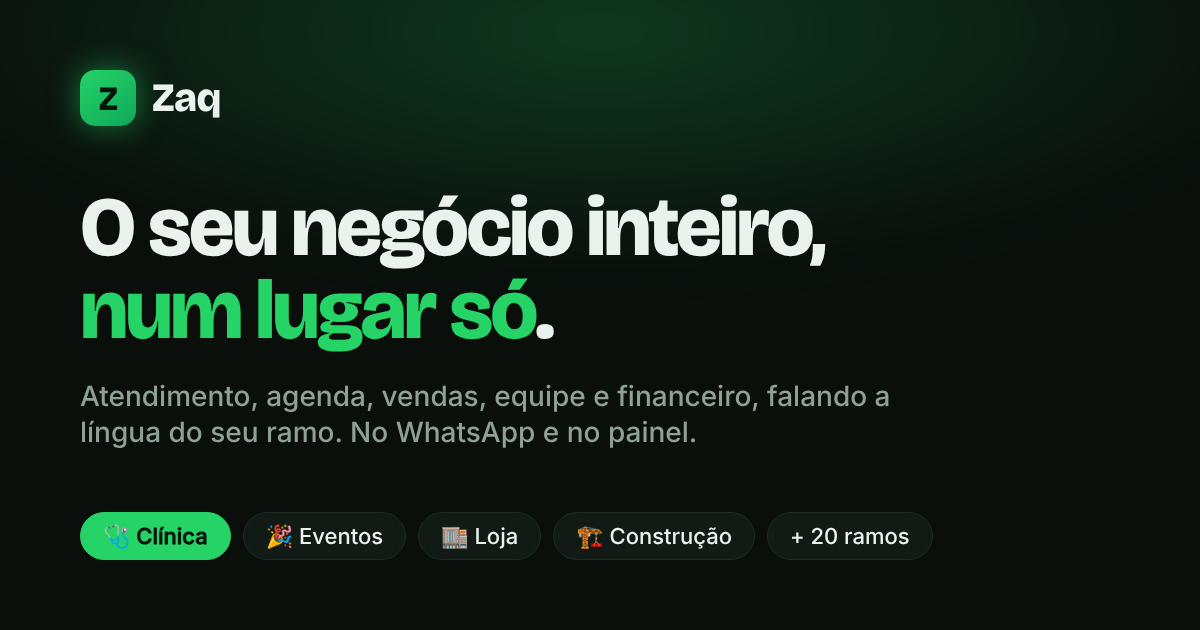
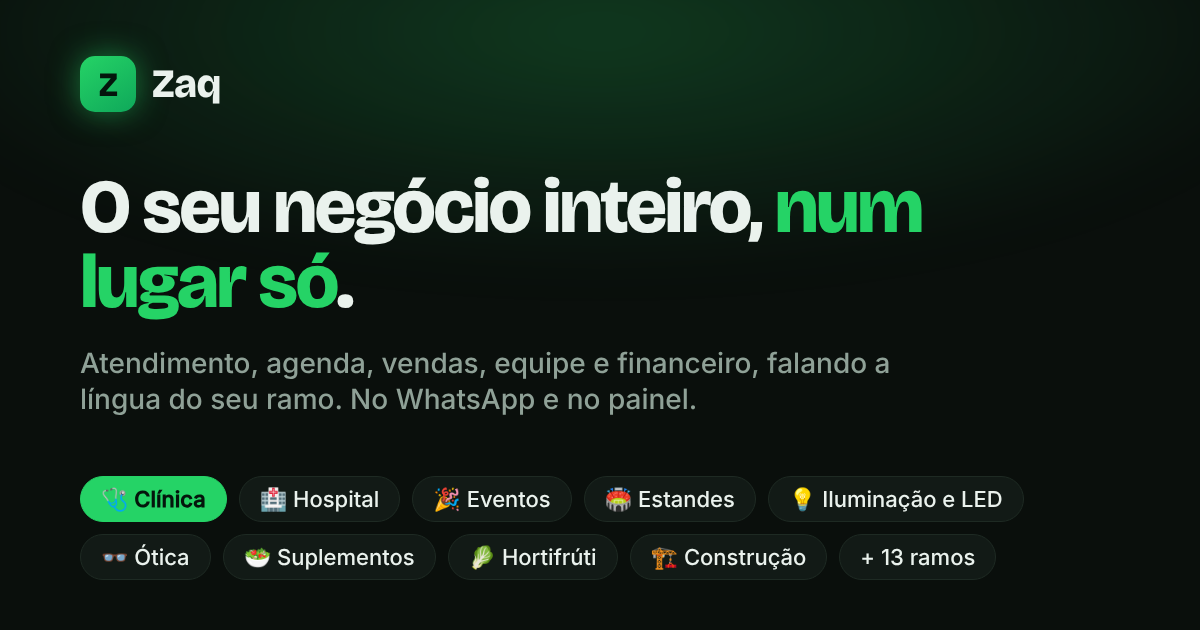
Home: nove ramos com cartão próprio, não quatro
Pedido do dono em 28/10/2026: faltavam iluminação e LED, CEASA, hospital,
stand de vendas e loja de suplementos. O "Loja" genérico sai e cada ramo
que já roda com cliente ganha chip no topo, conversa no celular, tela
desenhada e cartão com o vocabulário dele:

* Saúde: Clínica, Hospital (funil próprio, exames e cirurgias, TV com voz).
* Eventos e feiras: Eventos e festas, Stand de vendas (mapa público,
  pré-reserva, um contrato por empresa, custo por estande vendido).
* Comércio: Iluminação e LED (catálogo pela planilha, aprovações,
  expedição, sala do projeto), Ótica (OS, laboratório, central e lojas,
  boletim), Suplementos e cozinha fit (ficha técnica, produção do dia,
  curva ABC), Hortifrúti e CEASA (cestas da semana, compra somada no
  CEASA, romaneio da rota).
* Obras: Construção e reforma (agora com Suprimentos).

Tudo tirado dos avisos de novidade e de finance/nichos.py. Três colunas
em tela larga; a imagem de compartilhamento lista os nove ramos; o botão
"Ver o que o Zaq faz no meu ramo" leva ao cartão escolhido.

Claude-Session: https://claude.ai/code/session_016SqF7EmVp2eraxtH3fqPpV

diff --git a/index.html b/index.html
@@ -4,9 +4,9 @@
 <meta charset="utf-8">
 <meta name="viewport" content="width=device-width, initial-scale=1">
 <title>Zaq — o sistema da sua empresa, no WhatsApp</title>
-<meta name="description" content="Atendimento, agenda, vendas, equipe e financeiro do seu negócio num lugar só, falando a língua do seu ramo: clínica, eventos, loja, construção e mais. No WhatsApp e no painel.">
+<meta name="description" content="Atendimento, agenda, vendas, equipe e financeiro do seu negócio num lugar só, falando a língua do seu ramo: clínica, hospital, eventos, estandes, iluminação, ótica, suplementos, hortifrúti, construção e mais. No WhatsApp e no painel.">
 <meta property="og:title" content="Zaq — o sistema da sua empresa, no WhatsApp">
-<meta property="og:description" content="Do primeiro oi do cliente ao dinheiro na conta, feito pro seu ramo. Clínica, eventos, loja, construção e mais.">
+<meta property="og:description" content="Do primeiro oi do cliente ao dinheiro na conta, feito pro seu ramo. Clínica, hospital, eventos, estandes, iluminação e LED, ótica, suplementos, hortifrúti, construção e mais.">
 <meta property="og:type" content="website">
 <meta property="og:url" content="https://zaq-ia.com">
 <meta property="og:image" content="https://zaq-ia.com/og.png">
@@ -20,7 +20,7 @@
 <link rel="preconnect" href="https://fonts.gstatic.com" crossorigin>
 <link href="https://fonts.googleapis.com/css2?family=Bricolage+Grotesque:opsz,wght@12..96,500;12..96,700;12..96,800&family=Inter:wght@400;500;600&family=JetBrains+Mono:wght@500&display=swap" rel="stylesheet">
 <script type="application/ld+json">
-{"@context":"https://schema.org","@type":"SoftwareApplication","name":"Zaq","applicationCategory":"BusinessApplication","operatingSystem":"Web, WhatsApp","url":"https://zaq-ia.com","description":"Sistema de gestão por ramo (clínica, eventos, loja, construção) que funciona no WhatsApp e no painel: atendimento, agenda, vendas, equipe e financeiro.","inLanguage":"pt-BR","offers":{"@type":"Offer","priceCurrency":"BRL","description":"Sob orçamento"}}
+{"@context":"https://schema.org","@type":"SoftwareApplication","name":"Zaq","applicationCategory":"BusinessApplication","operatingSystem":"Web, WhatsApp","url":"https://zaq-ia.com","description":"Sistema de gestão por ramo (clínica, hospital, eventos, estandes, iluminação e LED, ótica, suplementos, hortifrúti, construção) que funciona no WhatsApp e no painel: atendimento, agenda, vendas, equipe e financeiro.","inLanguage":"pt-BR","offers":{"@type":"Offer","priceCurrency":"BRL","description":"Sob orçamento"}}
 </script>
 <style>
   :root{
@@ -68,7 +68,7 @@
   .ramo-pick{margin-top:26px}
   .ramo-pick .lbl{font-family:var(--mono);font-size:11.5px;letter-spacing:.14em;text-transform:uppercase;color:var(--text-faint);margin-bottom:10px}
   .chips{display:flex;flex-wrap:wrap;gap:8px}
-  .chips button{font:inherit;font-size:.92rem;font-weight:600;padding:9px 15px;border-radius:999px;border:1px solid var(--line);background:var(--surface);color:var(--text-dim);cursor:pointer;transition:.15s;display:inline-flex;align-items:center;gap:7px}
+  .chips button{font:inherit;font-size:.9rem;font-weight:600;padding:8px 13px;border-radius:999px;border:1px solid var(--line);background:var(--surface);color:var(--text-dim);cursor:pointer;transition:.15s;display:inline-flex;align-items:center;gap:7px}
   .chips button:hover{border-color:rgba(37,211,102,.5);color:var(--text)}
   .chips button[aria-pressed="true"]{background:var(--neon);border-color:var(--neon);color:#04150C}
   .chips button:focus-visible{outline:2px solid var(--neon);outline-offset:2px}
@@ -115,6 +115,7 @@
   .ramos{display:grid;grid-template-columns:minmax(0,1fr);gap:18px;margin-top:36px}
   .ramo{min-width:0;background:var(--surface);border:1px solid var(--line);border-radius:22px;padding:26px 22px;display:grid;gap:18px;scroll-margin-top:80px;transition:border-color .3s,box-shadow .3s}
   .ramo.destaque{border-color:rgba(37,211,102,.5);box-shadow:0 0 50px rgba(37,211,102,.08)}
+  .ramo .grupo{font-family:var(--mono);font-size:10.5px;letter-spacing:.14em;text-transform:uppercase;color:var(--text-faint);margin-bottom:-6px}
   .ramo .rhead{display:flex;align-items:center;gap:12px}
   .ramo .ric{width:46px;height:46px;border-radius:13px;background:rgba(37,211,102,.1);display:grid;place-items:center;font-size:23px;flex-shrink:0}
   .ramo h3{font-family:var(--display);font-weight:800;font-size:1.45rem;letter-spacing:-.02em;line-height:1.1}
@@ -139,7 +140,7 @@
   .funil{display:grid;grid-template-columns:repeat(4,1fr);gap:6px}
   .funil .col{min-width:0;background:var(--surface);border-radius:8px;padding:6px;min-height:92px}
   .funil .col i{display:block;font-style:normal;font-family:var(--mono);font-size:9px;letter-spacing:.08em;text-transform:uppercase;color:var(--text-faint);margin-bottom:5px}
-  .funil .card{background:var(--bg-2);border:1px solid var(--line);border-radius:6px;padding:5px 6px;font-size:10.5px;color:var(--text);margin-top:4px;line-height:1.3;overflow:hidden;text-overflow:ellipsis;white-space:nowrap}
+  .funil .card{background:var(--bg-2);border:1px solid var(--line);border-radius:6px;padding:5px 6px;font-size:10.5px;color:var(--text);margin-top:4px;line-height:1.25;overflow-wrap:anywhere}
   .funil .card small{display:block;color:var(--text-faint);font-size:9.5px;overflow:hidden;text-overflow:ellipsis}
   .quadra{display:grid;grid-template-columns:repeat(6,1fr);gap:5px}
   .quadra span{aspect-ratio:1;border-radius:5px;background:var(--surface);border:1px solid var(--line);display:grid;place-items:center;font-size:9px;color:var(--text-faint);font-family:var(--mono)}
@@ -206,6 +207,10 @@
     .hero{grid-template-columns:1.05fr .95fr;align-items:center}
     .cta-row{flex-direction:row;align-items:center;flex-wrap:wrap}
     .ramos{grid-template-columns:repeat(2,minmax(0,1fr))}
+  }
+  @media(min-width:1040px){
+    .ramos{grid-template-columns:repeat(3,minmax(0,1fr))}
+    .ramo{padding:26px 22px}
     .ramo{grid-template-columns:1fr;padding:28px 26px}
     .casa{grid-template-columns:repeat(3,1fr)}
     .steps{grid-template-columns:repeat(3,1fr)}
@@ -240,8 +245,13 @@
         <div class="lbl">Qual é o seu ramo?</div>
         <div class="chips" id="chips" role="group" aria-label="Escolha o seu ramo">
           <button type="button" data-ramo="clinica" aria-pressed="true">🩺 Clínica</button>
-          <button type="button" data-ramo="eventos" aria-pressed="false">🎉 Eventos</button>
-          <button type="button" data-ramo="loja" aria-pressed="false">🏬 Loja</button>
+          <button type="button" data-ramo="hospital" aria-pressed="false">🏥 Hospital</button>
+          <button type="button" data-ramo="eventos" aria-pressed="false">🎉 Eventos e festas</button>
+          <button type="button" data-ramo="estandes" aria-pressed="false">🏟 Stand de vendas</button>
+          <button type="button" data-ramo="led" aria-pressed="false">💡 Iluminação e LED</button>
+          <button type="button" data-ramo="otica" aria-pressed="false">👓 Ótica</button>
+          <button type="button" data-ramo="suplementos" aria-pressed="false">🥗 Suplementos</button>
+          <button type="button" data-ramo="hortifruti" aria-pressed="false">🥬 Hortifrúti e CEASA</button>
           <button type="button" data-ramo="obras" aria-pressed="false">🏗 Construção</button>
           <button type="button" data-ramo="outro" aria-pressed="false">Outro ramo</button>
         </div>
@@ -252,7 +262,7 @@
           <svg viewBox="0 0 24 24" fill="currentColor"><path d="M12.04 2C6.58 2 2.13 6.45 2.13 11.91c0 1.75.46 3.45 1.32 4.95L2 22l5.25-1.38a9.9 9.9 0 004.79 1.22h.01c5.46 0 9.91-4.45 9.91-9.91S17.5 2 12.04 2zm5.8 14.18c-.24.68-1.4 1.3-1.94 1.38-.5.07-1.13.1-1.82-.11-.42-.13-.96-.31-1.65-.61-2.9-1.25-4.8-4.17-4.94-4.36-.15-.19-1.18-1.57-1.18-3s.75-2.13 1.02-2.42c.27-.29.59-.36.78-.36.2 0 .39 0 .56.01.18.01.42-.07.66.5.24.59.82 2.04.89 2.19.07.15.12.32.02.51-.09.19-.14.31-.28.48-.14.17-.29.37-.42.5-.14.14-.28.29-.12.57.16.27.71 1.17 1.53 1.9 1.05.94 1.94 1.23 2.22 1.37.27.14.43.12.59-.07.16-.19.68-.79.86-1.06.18-.27.36-.22.61-.13.25.09 1.6.75 1.87.89.27.14.46.2.53.32.07.11.07.66-.17 1.34z"/></svg>
           <span class="js-cta-txt">Pedir orçamento pra minha clínica</span>
         </a>
-        <a class="btn-ghost" href="#ramos">Ver o que o Zaq faz no meu ramo</a>
+        <a class="btn-ghost" id="ver-ramo" href="#ramo-clinica">Ver o que o Zaq faz no meu ramo</a>
       </div>
       <p class="micro">Cada negócio é um orçamento <span class="dot"></span> a gente responde no WhatsApp, gente de verdade</p>
     </div>
@@ -283,15 +293,70 @@
           <div class="msg out" data-step>quero sim!<span class="t">20:18</span></div>
         </div>
 
-        <div class="chat" data-chat="loja">
-          <span class="quem-fala">o cliente fala com a loja</span>
-          <div class="msg out" data-step>Vocês têm o pendente Lumi 30 em preto?<span class="t">11:02</span></div>
-          <div class="msg in" data-step style="max-width:92%">Temos sim 👇
-            <div class="summary"><div class="row"><span>💡 Pendente Lumi 30</span><b>preto</b></div><div class="row"><span>📦 Estoque</span><b>12 · loja Centro</b></div><div class="row"><span>💰 Preço</span><b>R$ 389,00</b></div><div class="ok">✓ O Rafael, vendedor da loja, já está com você</div></div>
-            <span class="t">11:02</span>
+        <div class="chat" data-chat="hospital">
+          <span class="quem-fala">a mãe fala com o hospital</span>
+          <div class="msg out" data-step>Oi, preciso marcar o teste da orelhinha do meu bebê<span class="t">8:05</span></div>
+          <div class="msg in" data-step>Claro! Tenho <b>amanhã às 8h30</b> e <b>quinta às 10h</b> com a fono. Qual fica melhor?<span class="t">8:05</span></div>
+          <div class="msg out" data-step>amanhã 8h30<span class="t">8:06</span></div>
+          <div class="msg in" data-step style="max-width:92%">Marcado 👇
+            <div class="summary"><div class="row"><span>🧪 Exame</span><b>teste da orelhinha</b></div><div class="row"><span>📅 Quando</span><b>amanhã, 8h30</b></div><div class="row"><span>📍 Onde</span><b>Recepção 2 · térreo</b></div><div class="ok">✓ Lembrete de manhã; na chegada, chamada na TV com voz</div><span class="link">Confirmar ou remarcar</span></div>
+            <span class="t">8:06</span>
           </div>
-          <div class="msg out" data-step>quero 2, pode mandar o orçamento<span class="t">11:04</span></div>
-          <div class="msg in" data-step>Enviado! Você aceita pelo link no celular e a expedição já separa 📦<span class="t">11:04</span></div>
+        </div>
+
+        <div class="chat" data-chat="estandes">
+          <span class="quem-fala">o lojista fala com a feira</span>
+          <div class="msg out" data-step>Vi o mapa da 32ª edição. O estande B12 ainda está livre?<span class="t">15:40</span></div>
+          <div class="msg in" data-step style="max-width:92%">Está sim 👇
+            <div class="summary"><div class="row"><span>🏟 Estande</span><b>B12 · 3×3 m</b></div><div class="row"><span>📍 Onde</span><b>corredor principal</b></div><div class="row"><span>⏳ Pré-reserva</span><b>vence em 48h</b></div><div class="ok">✓ Reservado no mapa; contrato e Pix do sinal no link</div></div>
+            <span class="t">15:40</span>
+          </div>
+          <div class="msg out" data-step>paguei o sinal<span class="t">16:02</span></div>
+          <div class="msg in" data-step>Caiu! O B12 é seu. O card foi pra <b>vendido</b> e a comissão da Carla já está lançada 🎉<span class="t">16:02</span></div>
+        </div>
+
+        <div class="chat" data-chat="led">
+          <span class="quem-fala">a arquiteta fala com a loja</span>
+          <div class="msg out" data-step>Preciso de 40 m de fita LED 2700K com perfil, pra uma sala de estar<span class="t">10:12</span></div>
+          <div class="msg in" data-step style="max-width:92%">Montei assim 👇
+            <div class="summary"><div class="row"><span>💡 Fita 2700K</span><b>40 m · 2 rolos</b></div><div class="row"><span>📏 Perfil + difusor</span><b>14 varas</b></div><div class="row"><span>🔌 Fonte</span><b>2 un · 150 W</b></div><div class="row"><span>💰 Total</span><b>R$ 2.860,00</b></div><div class="ok">✓ Tudo em estoque · orçamento 2207 enviado</div></div>
+            <span class="t">10:13</span>
+          </div>
+          <div class="msg out" data-step>aprovado, pode faturar<span class="t">10:40</span></div>
+          <div class="msg in" data-step>Aceite registrado pelo link. A expedição já separa e o projeto entrou na agenda da loja 📦<span class="t">10:40</span></div>
+        </div>
+
+        <div class="chat" data-chat="otica">
+          <span class="quem-fala">o cliente fala com a ótica</span>
+          <div class="msg out" data-step>Saiu minha receita nova, quero fazer os óculos<span class="t">14:20</span></div>
+          <div class="msg in" data-step>Ótimo! Me manda a foto da receita 📷 e eu já abro a ordem de serviço.<span class="t">14:20</span></div>
+          <div class="msg in" data-step style="max-width:92%">Pronto 👇
+            <div class="summary"><div class="row"><span>👓 OS 0412</span><b>OD −2,00 · OE −1,75</b></div><div class="row"><span>🕶 Armação</span><b>a sua, com lente nova</b></div><div class="row"><span>🔬 Lente</span><b>antirreflexo · lab. 7 dias</b></div><div class="ok">✓ Sinal via Pix no link; aviso quando ficar pronto</div></div>
+            <span class="t">14:21</span>
+          </div>
+          <div class="msg in" data-step>Seus óculos ficaram prontos! Pode retirar na <b>loja Centro</b> até as 18h 😊<span class="t">sex 11:05</span></div>
+        </div>
+
+        <div class="chat" data-chat="suplementos">
+          <span class="quem-fala">a cliente fala com a loja</span>
+          <div class="msg out" data-step>Tem marmita de frango fit hoje? Quero 5<span class="t">9:50</span></div>
+          <div class="msg in" data-step style="max-width:92%">Tem sim 👇
+            <div class="summary"><div class="row"><span>🍱 Frango fit</span><b>5 × R$ 24,90</b></div><div class="row"><span>🥤 Leva junto?</span><b>whey morango · R$ 149</b></div><div class="row"><span>🛵 Entrega</span><b>hoje até 12h</b></div><div class="ok">✓ Produção do dia baixou os insumos; etiqueta já saiu</div></div>
+            <span class="t">9:50</span>
+          </div>
+          <div class="msg out" data-step>fechado, com o whey<span class="t">9:52</span></div>
+          <div class="msg in" data-step>Pedido 318 saindo. O whey saiu do estoque da loja e o caixa do dia já contou ✓<span class="t">9:52</span></div>
+        </div>
+
+        <div class="chat" data-chat="hortifruti">
+          <span class="quem-fala">a cliente fala com o fornecedor</span>
+          <div class="msg out" data-step>Quero a cesta média dessa semana, com mais banana<span class="t">19:30</span></div>
+          <div class="msg in" data-step style="max-width:92%">Anotado 👇
+            <div class="summary"><div class="row"><span>🧺 Cesta média</span><b>entrega quinta</b></div><div class="row"><span>🍌 Extra</span><b>+ 1 kg banana</b></div><div class="row"><span>💰 Total</span><b>R$ 68,00</b></div><div class="ok">✓ Na rota de quinta; o romaneio do motorista sai sozinho</div></div>
+            <span class="t">19:30</span>
+          </div>
+          <span class="quem-fala" style="margin-top:6px">e o Zaq fala com o dono</span>
+          <div class="msg in" data-step>Sua ida ao CEASA de quarta já soma <b>42 kg de banana</b> e <b>18 maços de alface</b> entre todos os pedidos da semana 🛒<span class="t">19:31</span></div>
         </div>
 
         <div class="chat" data-chat="obras">
@@ -324,12 +389,13 @@
   <div class="wrap">
     <div class="sec-eyebrow">Feito pro seu ramo</div>
     <h2>O Zaq fala a língua de quem usa.</h2>
-    <p class="lead">Clínica não tem "festa", buffet não tem "paciente", loja não tem "lote". <b>Cada ramo tem as suas telas, as suas palavras e os seus números</b>, e nada de um ramo vaza pro outro.</p>
+    <p class="lead">Clínica não tem "festa", buffet não tem "paciente", ótica não tem "lote". <b>Cada ramo tem as suas telas, as suas palavras e os seus números</b>, e nada de um ramo vaza pro outro. Nove ramos já rodam com cliente de verdade.</p>
 
     <div class="ramos">
       <article class="ramo" id="ramo-clinica" data-ramo="clinica">
+        <div class="grupo">Saúde</div>
         <div class="rhead"><div class="ric">🩺</div><div><h3>Clínica</h3><div class="quem">estética, odonto, fisioterapia, dermatologia, consultório</div></div></div>
-        <p class="frase">Da recepção à sala do médico, o dia inteiro ao vivo.</p>
+        <p class="frase">Da recepção à sala do profissional, o dia inteiro ao vivo.</p>
         <div class="tela">
           <div class="tt"><span>Hoje · recepção</span><span>qui, 14 pacientes</span></div>
           <div class="ln"><b>Mariana S.</b><span class="pill v">em atendimento</span></div>
@@ -343,11 +409,30 @@
           <li><b>Orçamento começa na consulta</b>, com pacotes e sessões; a recepção fecha o pagamento com Pix, boleto ou cartão.</li>
           <li><b>Caixa do dia, repasse por profissional</b> e insumos da sala contados, com reposição avisada.</li>
         </ul>
-        <a class="rcta js-cta" href="https://wa.me/13192453800?text=Oi!%20Tenho%20uma%20cl%C3%ADnica%20e%20quero%20um%20or%C3%A7amento%20do%20Zaq" target="_blank" rel="noopener">Pedir orçamento pra clínica →</a>
+        <a class="rcta js-cta" href="https://wa.me/13192453800?text=Oi%21%20Tenho%20uma%20cl%C3%ADnica%20e%20quero%20um%20or%C3%A7amento%20do%20Zaq" target="_blank" rel="noopener">Pedir orçamento pra clínica →</a>
       </article>
-
+      <article class="ramo" id="ramo-hospital" data-ramo="hospital">
+        <div class="grupo">Saúde</div>
+        <div class="rhead"><div class="ric">🏥</div><div><h3>Hospital</h3><div class="quem">hospital-dia, centro de diagnóstico, maternidade, pronto atendimento</div></div></div>
+        <p class="frase">As mesmas telas da clínica, com a palavra e o caminho do hospital.</p>
+        <div class="tela">
+          <div class="tt"><span>Fila · exames e cirurgias</span><span>ter, 31 atendimentos</span></div>
+          <div class="ln"><b>Teste da orelhinha · Bebê de Ana</b><span class="pill a">chegou · TV</span></div>
+          <div class="ln"><b>Ergométrico · João P.</b><span class="pill v">em exame</span></div>
+          <div class="ln"><b>Cirurgia · Helena R.</b><span class="pill z">pré-op confirmado</span></div>
+          <div class="ln"><b>Retorno · Marcos L.</b><span class="pill r">faltou · remarcar</span></div>
+        </div>
+        <ul>
+          <li><b>Consultas, exames, testes, cirurgias e procedimentos</b> no catálogo e nos relatórios, cada grupo com o seu número.</li>
+          <li><b>Funil próprio</b>, com o que só existe aqui: "faltou e não remarcou", "desistiu após falha do hospital", e a mensagem de voltar a chamar.</li>
+          <li><b>Chegada e chamada na TV</b> da recepção em tela cheia, com voz; o profissional marca na sala e confirma o dia.</li>
+          <li>Prontuário, caixa, repasse e a Comunicação com a equipe, tudo dizendo "o hospital", nunca "a clínica".</li>
+        </ul>
+        <a class="rcta js-cta" href="https://wa.me/13192453800?text=Oi%21%20Falo%20por%20um%20hospital%20e%20quero%20um%20or%C3%A7amento%20do%20Zaq" target="_blank" rel="noopener">Pedir orçamento pro hospital →</a>
+      </article>
       <article class="ramo" id="ramo-eventos" data-ramo="eventos">
-        <div class="rhead"><div class="ric">🎉</div><div><h3>Eventos e festas</h3><div class="quem">buffet, espaço de festas, cerimonial, estandes de feira</div></div></div>
+        <div class="grupo">Eventos e feiras</div>
+        <div class="rhead"><div class="ric">🎉</div><div><h3>Eventos e festas</h3><div class="quem">buffet, espaço de festas, cerimonial, decoração</div></div></div>
         <p class="frase">Do primeiro oi ao pós-festa, sem perder uma data.</p>
         <div class="tela">
           <div class="tt"><span>Funil · fevereiro</span><span>18 festas</span></div>
@@ -362,31 +447,105 @@
           <li>O card <b>lê a data, o tipo e os convidados</b> na própria conversa e avisa quando duas festas caem no mesmo dia.</li>
           <li><b>Visita, proposta por link e contrato</b> que fecha o negócio e abre o financeiro; sinal via Pix com baixa sozinha.</li>
           <li><b>Rodízio de vendedores</b>, comissão por faixa de contratos e o Resgate da IA pra lead que esfriou.</li>
-          <li>Pra feira: funil de estandes, do mapa reservado ao estande quitado.</li>
+          <li>A festa aconteceu? Um toque confirma, e o agradecimento sai pro cliente.</li>
         </ul>
-        <a class="rcta js-cta" href="https://wa.me/13192453800?text=Oi!%20Trabalho%20com%20eventos%20e%20quero%20um%20or%C3%A7amento%20do%20Zaq" target="_blank" rel="noopener">Pedir orçamento pra eventos →</a>
+        <a class="rcta js-cta" href="https://wa.me/13192453800?text=Oi%21%20Trabalho%20com%20eventos%20e%20quero%20um%20or%C3%A7amento%20do%20Zaq" target="_blank" rel="noopener">Pedir orçamento pra eventos →</a>
       </article>
-
-      <article class="ramo" id="ramo-loja" data-ramo="loja">
-        <div class="rhead"><div class="ric">🏬</div><div><h3>Loja e varejo</h3><div class="quem">iluminação, ótica, suplementos, hortifrúti, mais de uma loja</div></div></div>
-        <p class="frase">Catálogo, estoque, orçamento, expedição e fiscal, do balcão à entrega.</p>
+      <article class="ramo" id="ramo-estandes" data-ramo="estandes">
+        <div class="grupo">Eventos e feiras</div>
+        <div class="rhead"><div class="ric">🏟</div><div><h3>Stand de vendas</h3><div class="quem">feira, outlet, bazar, evento com estandes pra lojista</div></div></div>
+        <p class="frase">Do mapa público ao estande quitado, com a vendedora comissionada.</p>
         <div class="tela">
-          <div class="tt"><span>Estoque · pendente Lumi 30</span><span>por endereço</span></div>
-          <div class="ln"><b>Loja Centro · A-03</b><span class="pill v">12 un</span></div>
-          <div class="ln"><b>Loja Norte · B-11</b><span class="pill a">2 un · repor</span></div>
-          <div class="ln"><b>Expedição · pedido 1842</b><span class="pill z">separando</span></div>
-          <div class="ln"><b>Orçamento 2207</b><span class="pill r">aceito no celular ✓</span></div>
+          <div class="tt"><span>Mapa · 32ª edição</span><span>48 estandes</span></div>
+          <div class="quadra"><span class="e2">A1</span><span class="e2">A2</span><span class="e1">A3</span><span>A4</span><span class="e2">A5</span><span class="e3">A6</span><span class="e2">B10</span><span class="e1">B11</span><span>B12</span><span class="e2">B13</span><span class="e1">B14</span><span class="e2">B15</span></div>
+          <div class="legenda"><span><i style="background:rgba(37,211,102,.5)"></i>vendido</span><span><i style="background:rgba(37,211,102,.2)"></i>pré-reserva</span><span><i style="background:rgba(224,163,46,.4)"></i>bloqueado</span><span><i style="background:#1E2A23"></i>livre</span></div>
         </div>
         <ul>
-          <li><b>Catálogo pela planilha</b>, ficha técnica, NCM conferido e preço por lista de cliente.</li>
-          <li><b>Estoque por endereço</b>, inventário, compras pelo que falta e <b>expedição</b> com separação, conferência e entrega.</li>
-          <li><b>Vendedor de loja e supervisor</b>: a central leva o cliente pra loja certa e o boletim mostra cada loja em cinco tarefas.</li>
-          <li>Ótica com <b>ordem de serviço</b> (receita, armação, lente, laboratório); cozinha com ficha técnica e produção do dia.</li>
+          <li><b>Mapa público</b> da edição: o lojista escolhe o estande, faz a pré-reserva com vencimento, e a gestão bloqueia o que não vende.</li>
+          <li><b>Funil do lojista</b>: atendido, recebeu o mapa, reservou, vendido, quitado. Cada card anda sozinho.</li>
+          <li><b>Uma empresa, um contrato</b>, mesmo com vários estandes; sinal via Pix, recebimentos e comprovante na proposta.</li>
+          <li>Quem clica no anúncio e reserva pelo mapa cai no card certo: você vê o <b>custo por estande vendido</b>.</li>
         </ul>
-        <a class="rcta js-cta" href="https://wa.me/13192453800?text=Oi!%20Tenho%20uma%20loja%20e%20quero%20um%20or%C3%A7amento%20do%20Zaq" target="_blank" rel="noopener">Pedir orçamento pra loja →</a>
+        <a class="rcta js-cta" href="https://wa.me/13192453800?text=Oi%21%20Vendo%20estandes%20em%20feira%20e%20quero%20um%20or%C3%A7amento%20do%20Zaq" target="_blank" rel="noopener">Pedir orçamento pra venda de estandes →</a>
       </article>
-
+      <article class="ramo" id="ramo-led" data-ramo="led">
+        <div class="grupo">Comércio</div>
+        <div class="rhead"><div class="ric">💡</div><div><h3>Iluminação e LED</h3><div class="quem">loja de iluminação, distribuidor de LED, projetos luminotécnicos</div></div></div>
+        <p class="frase">Catálogo, estoque, orçamento, aprovação, expedição e fiscal, do balcão à obra.</p>
+        <div class="tela">
+          <div class="tt"><span>Orçamentos · loja</span><span>semana</span></div>
+          <div class="ln"><b>2207 · Sala de estar · Arq. Paula</b><span class="pill v">aceito no celular</span></div>
+          <div class="ln"><b>2208 · Fachada · Loja Vila</b><span class="pill a">aguardando aprovação</span></div>
+          <div class="ln"><b>Pedido 1842 · expedição</b><span class="pill z">separando · baia 3</span></div>
+          <div class="ln"><b>Fita 2700K · estoque A-03</b><span class="pill r">8 rolos · repor</span></div>
+        </div>
+        <ul>
+          <li><b>Catálogo pela planilha</b>, com ficha técnica, marcas, NCM conferido e preço por lista de cliente.</li>
+          <li><b>Orçamento com aceite no celular</b>, alçada de aprovação e desconto; toda proposta vira card no funil da loja.</li>
+          <li><b>Estoque por endereço</b>, inventário, compras pelo que falta e <b>expedição</b> com separação, conferência, baia e entrega.</li>
+          <li>Agenda com os tipos da loja e a <b>sala do projeto</b> pra acompanhar a obra do cliente.</li>
+        </ul>
+        <a class="rcta js-cta" href="https://wa.me/13192453800?text=Oi%21%20Tenho%20uma%20loja%20de%20ilumina%C3%A7%C3%A3o%20e%20LED%20e%20quero%20um%20or%C3%A7amento%20do%20Zaq" target="_blank" rel="noopener">Pedir orçamento pra loja de iluminação →</a>
+      </article>
+      <article class="ramo" id="ramo-otica" data-ramo="otica">
+        <div class="grupo">Comércio</div>
+        <div class="rhead"><div class="ric">👓</div><div><h3>Ótica</h3><div class="quem">ótica de rua, rede com central e várias lojas</div></div></div>
+        <p class="frase">A receita, o laboratório e a entrega num lugar só, em todas as lojas.</p>
+        <div class="tela">
+          <div class="tt"><span>Ordens de serviço</span><span>3 lojas</span></div>
+          <div class="ln"><b>OS 0412 · Rafael · Centro</b><span class="pill z">no laboratório · 4 dias</span></div>
+          <div class="ln"><b>OS 0409 · Dona Célia · Norte</b><span class="pill v">pronto pra retirar</span></div>
+          <div class="ln"><b>OS 0401 · Bruno · Centro</b><span class="pill a">não buscou · lembrar</span></div>
+          <div class="ln"><b>Central → loja Sul</b><span class="pill r">cliente novo · pegar</span></div>
+        </div>
+        <ul>
+          <li><b>Ordem de serviço</b> com o grau da receita, a armação, a lente, o laboratório e o prazo; sinal no financeiro.</li>
+          <li><b>Mensagens que saem sozinhas</b>: óculos prontos, quem não buscou, receita fazendo um ano, lente de contato acabando.</li>
+          <li><b>Central e lojas</b>: a central leva o cliente pra loja certa, o vendedor da loja atende e o supervisor é avisado.</li>
+          <li><b>Boletim das lojas</b>: cada loja em cinco tarefas, em verde, amarelo ou vermelho.</li>
+        </ul>
+        <a class="rcta js-cta" href="https://wa.me/13192453800?text=Oi%21%20Tenho%20uma%20%C3%B3tica%20e%20quero%20um%20or%C3%A7amento%20do%20Zaq" target="_blank" rel="noopener">Pedir orçamento pra ótica →</a>
+      </article>
+      <article class="ramo" id="ramo-suplementos" data-ramo="suplementos">
+        <div class="grupo">Comércio</div>
+        <div class="rhead"><div class="ric">🥗</div><div><h3>Suplementos e cozinha fit</h3><div class="quem">loja de suplementos, marmitaria fit, confeitaria e padaria</div></div></div>
+        <p class="frase">A prateleira e a cozinha na mesma conta, com o custo de cada prato.</p>
+        <div class="tela">
+          <div class="tt"><span>Cozinha · produção do dia</span><span>qua</span></div>
+          <div class="ln"><b>Frango fit · 40 un</b><span class="pill v">custo R$ 11,20 · pronto</span></div>
+          <div class="ln"><b>Carne com batata-doce · 25 un</b><span class="pill a">produzindo</span></div>
+          <div class="ln"><b>Whey morango · prateleira</b><span class="pill z">curva A · 6 un</span></div>
+          <div class="ln"><b>Peito de frango · insumo</b><span class="pill r">baixou do mínimo</span></div>
+        </div>
+        <ul>
+          <li><b>Ficha técnica</b> diz quanto custa cada marmita; a <b>produção do dia</b> baixa os insumos, sobe o prato pronto e imprime a etiqueta.</li>
+          <li><b>Curva ABC</b>: os poucos produtos que fazem 80% da venda, o A que está faltando e o C parado.</li>
+          <li><b>Venda no balcão e pelo WhatsApp</b>, com entrega, saindo do lugar certo do estoque.</li>
+          <li>Pedido do cliente, caixa do dia e o insumo que baixou do mínimo avisado na hora.</li>
+        </ul>
+        <a class="rcta js-cta" href="https://wa.me/13192453800?text=Oi%21%20Tenho%20uma%20loja%20de%20suplementos%20e%20quero%20um%20or%C3%A7amento%20do%20Zaq" target="_blank" rel="noopener">Pedir orçamento pra loja de suplementos →</a>
+      </article>
+      <article class="ramo" id="ramo-hortifruti" data-ramo="hortifruti">
+        <div class="grupo">Comércio</div>
+        <div class="rhead"><div class="ric">🥬</div><div><h3>Hortifrúti e CEASA</h3><div class="quem">fornecedor de cestas, sacolão, distribuidor que compra no CEASA</div></div></div>
+        <p class="frase">Do pedido da semana à ida ao CEASA e à rota de entrega.</p>
+        <div class="tela">
+          <div class="tt"><span>Pedidos da semana</span><span>quinta · 37 cestas</span></div>
+          <div class="ln"><b>Compra no CEASA · quarta</b><span class="pill z">42 kg banana · 18 alface</span></div>
+          <div class="ln"><b>Rota 1 · Zona Sul · 19 cestas</b><span class="pill v">romaneio no motorista</span></div>
+          <div class="ln"><b>Rota 2 · Centro · 18 cestas</b><span class="pill a">separando</span></div>
+          <div class="ln"><b>Financeiro · semana</b><span class="pill r">R$ 2.516 a receber</span></div>
+        </div>
+        <ul>
+          <li><b>Cestas da semana</b> por tamanho, com o extra de cada cliente, pedidas pelo WhatsApp ou pela página de pedidos.</li>
+          <li><b>A compra no CEASA sai somada</b> dos pedidos: quanto de cada item comprar na quarta pra entregar na quinta.</li>
+          <li><b>Romaneio da rota</b> pro motorista, conferência da nota do fornecedor e estoque com o que chegou de verdade.</li>
+          <li>Faturamento, comissão e repasse da semana no financeiro, sem planilha.</li>
+        </ul>
+        <a class="rcta js-cta" href="https://wa.me/13192453800?text=Oi%21%20Trabalho%20com%20hortifr%C3%BAti%20e%20quero%20um%20or%C3%A7amento%20do%20Zaq" target="_blank" rel="noopener">Pedir orçamento pro hortifrúti →</a>
+      </article>
       <article class="ramo" id="ramo-obras" data-ramo="obras">
+        <div class="grupo">Obras</div>
         <div class="rhead"><div class="ric">🏗</div><div><h3>Construção e reforma</h3><div class="quem">construtora, loteamento, reforma, engenharia</div></div></div>
         <p class="frase">O canteiro no celular do mestre, o custo na mesa do escritório.</p>
         <div class="tela">
@@ -396,16 +555,16 @@
         </div>
         <ul>
           <li><b>App do mestre</b>, entrando pelo WhatsApp sem senha: foto da etapa, etapa feita, material usado. Sem nenhum valor na tela dele.</li>
-          <li><b>A nota vira material contado</b>: 60 sacos entram, "usei 15 na casa 2" dá baixa, o depósito avisa o mínimo.</li>
+          <li><b>A nota vira material contado</b>: 60 sacos entram, "usei 15 na casa 2" dá baixa, o almoxarifado avisa o mínimo.</li>
           <li><b>Mapa 3D na sua planta</b>: cada casa cresce conforme as etapas, e o sistema aponta a que gasta acima das irmãs.</li>
-          <li>Ferramenta com <b>etiqueta QR e termo assinado com o dedo</b>; caminhão sai com romaneio pro motorista.</li>
+          <li><b>Suprimentos</b>: cotação, pedido de compra, nota conferida contra o pedido, ferramenta com etiqueta QR e termo assinado.</li>
         </ul>
-        <a class="rcta js-cta" href="https://wa.me/13192453800?text=Oi!%20Trabalho%20com%20constru%C3%A7%C3%A3o%20e%20quero%20um%20or%C3%A7amento%20do%20Zaq" target="_blank" rel="noopener">Pedir orçamento pra construção →</a>
+        <a class="rcta js-cta" href="https://wa.me/13192453800?text=Oi%21%20Trabalho%20com%20constru%C3%A7%C3%A3o%20e%20quero%20um%20or%C3%A7amento%20do%20Zaq" target="_blank" rel="noopener">Pedir orçamento pra construção →</a>
       </article>
     </div>
 
     <div class="outros" id="ramo-outro">
-      <b>Não achou o seu?</b> O Zaq já roda em consultoria, advocacia, contabilidade, agência, corretora de seguros, salão, petshop, oficina, assistência técnica, educação e mais. O ramo define as palavras; a casa é a mesma. <a class="js-cta" href="https://wa.me/13192453800?text=Oi!%20Quero%20um%20or%C3%A7amento%20do%20Zaq%20pra%20minha%20empresa" target="_blank" rel="noopener" style="color:var(--neon);font-weight:600">Me conta o seu ramo →</a>
+      <b>Não achou o seu?</b> O Zaq também roda em consultoria, advocacia, contabilidade, agência de marketing, corretora de seguros, salão, petshop, oficina, assistência técnica, educação, vestuário, farmácia e minimercado. O ramo define as palavras; a casa é a mesma. <a class="js-cta" href="https://wa.me/13192453800?text=Oi!%20Quero%20um%20or%C3%A7amento%20do%20Zaq%20pra%20minha%20empresa" target="_blank" rel="noopener" style="color:var(--neon);font-weight:600">Me conta o seu ramo →</a>
     </div>
   </div>
 </section>
@@ -523,11 +682,16 @@
 (function(){
   var WA = 'https://wa.me/13192453800?text=';
   var RAMOS = {
-    clinica:{cta:'Pedir orçamento pra minha clínica', msg:'Oi! Tenho uma clínica e quero um orçamento do Zaq'},
-    eventos:{cta:'Pedir orçamento pra eventos',       msg:'Oi! Trabalho com eventos e quero um orçamento do Zaq'},
-    loja:   {cta:'Pedir orçamento pra minha loja',    msg:'Oi! Tenho uma loja e quero um orçamento do Zaq'},
-    obras:  {cta:'Pedir orçamento pra construção',    msg:'Oi! Trabalho com construção e quero um orçamento do Zaq'},
-    outro:  {cta:'Pedir orçamento pra minha empresa', msg:'Oi! Quero um orçamento do Zaq pra minha empresa'}
+    clinica:    {cta:'Pedir orçamento pra minha clínica',   msg:'Oi! Tenho uma clínica e quero um orçamento do Zaq'},
+    hospital:   {cta:'Pedir orçamento pro hospital',        msg:'Oi! Falo por um hospital e quero um orçamento do Zaq'},
+    eventos:    {cta:'Pedir orçamento pra eventos',         msg:'Oi! Trabalho com eventos e quero um orçamento do Zaq'},
+    estandes:   {cta:'Pedir orçamento pra venda de estandes', msg:'Oi! Vendo estandes em feira e quero um orçamento do Zaq'},
+    led:        {cta:'Pedir orçamento pra minha loja de LED', msg:'Oi! Tenho uma loja de iluminação e LED e quero um orçamento do Zaq'},
+    otica:      {cta:'Pedir orçamento pra minha ótica',     msg:'Oi! Tenho uma ótica e quero um orçamento do Zaq'},
+    suplementos:{cta:'Pedir orçamento pra minha loja',      msg:'Oi! Tenho uma loja de suplementos e quero um orçamento do Zaq'},
+    hortifruti: {cta:'Pedir orçamento pro meu hortifrúti',  msg:'Oi! Trabalho com hortifrúti e quero um orçamento do Zaq'},
+    obras:      {cta:'Pedir orçamento pra construção',      msg:'Oi! Trabalho com construção e quero um orçamento do Zaq'},
+    outro:      {cta:'Pedir orçamento pra minha empresa',   msg:'Oi! Quero um orçamento do Zaq pra minha empresa'}
   };
   var chips = document.getElementById('chips');
   var chats = document.querySelectorAll('.chat');
@@ -549,6 +713,7 @@
     // o botão principal do topo e o do fim seguem o ramo escolhido; os botões dentro de cada ramo ficam como estão
     document.querySelectorAll('.cta-row .js-cta, .nav-cta').forEach(function(a){ a.href = WA + encodeURIComponent(r.msg); });
     var txt = document.querySelector('header .js-cta-txt'); if(txt) txt.textContent = r.cta;
+    var ver = document.getElementById('ver-ramo'); if(ver) ver.href = '#ramo-' + ramo;
     document.querySelectorAll('.ramo').forEach(function(c){ c.classList.toggle('destaque', c.getAttribute('data-ramo') === ramo); });
     var chat = document.querySelector('.chat[data-chat="' + ramo + '"]') || document.querySelector('.chat[data-chat="outro"]');
     mostra(chat);
